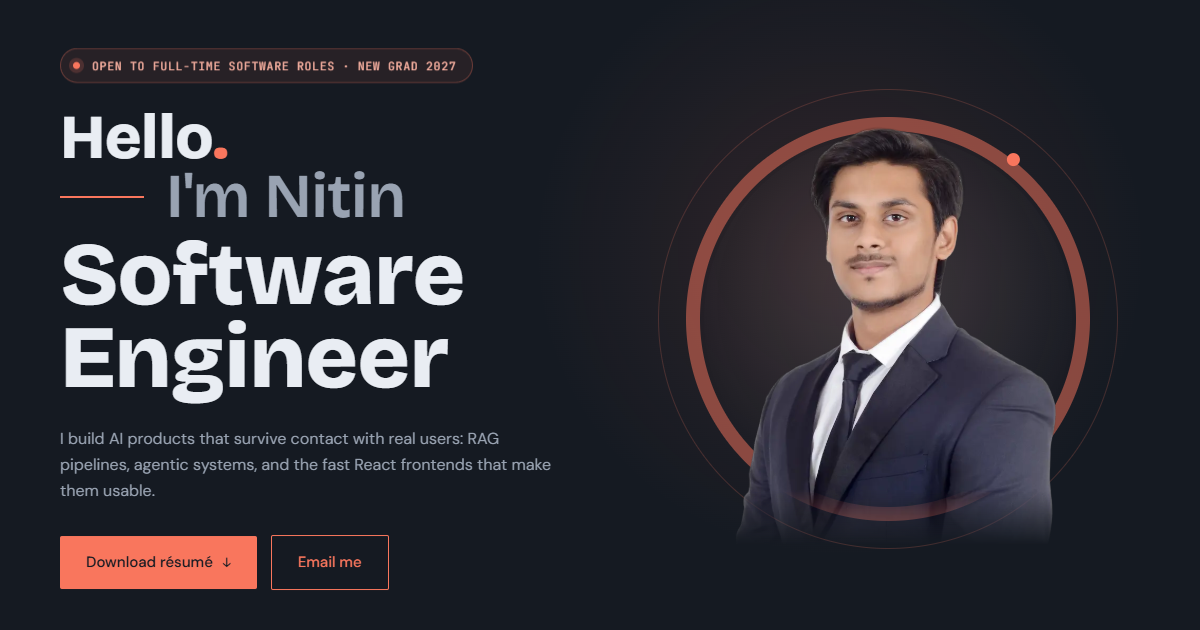
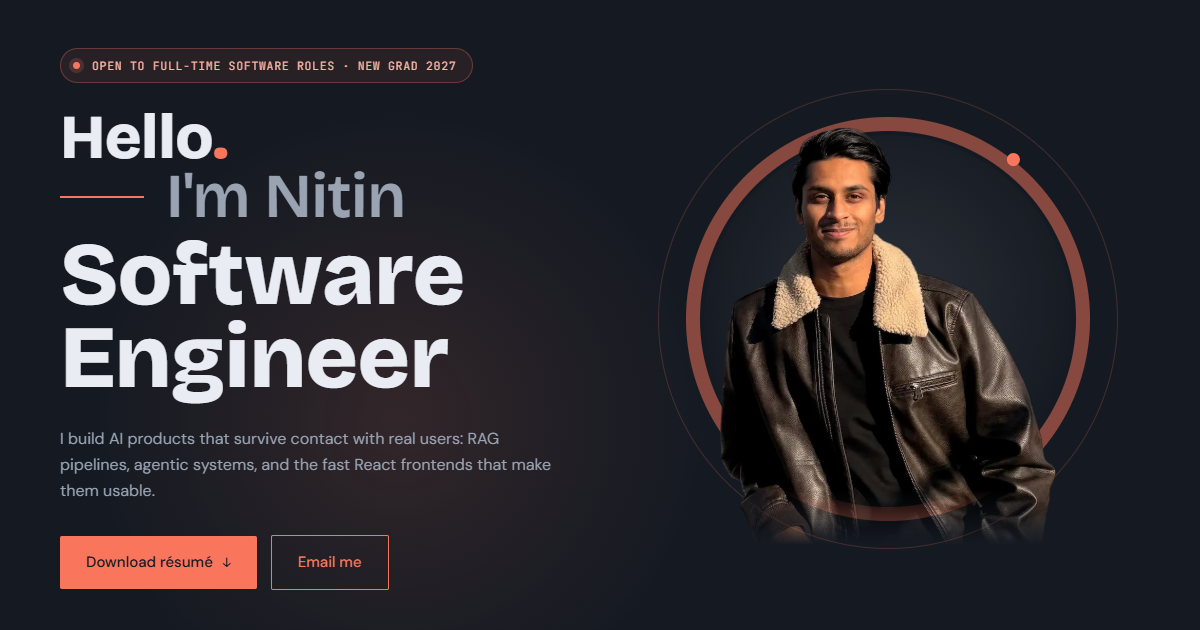
feat: swap the hero headshot for the Brooklyn Bridge photo
Same local cutout pipeline, cropped to the upper body. Faces the camera
this time, and the shearling collar gives the silhouette an edge the
suit never had against the ground colour. Regenerate the share card,
which was still showing the suit.

New filename rather than overwriting, since the image optimizer caches
by URL.

diff --git a/components/Hero.tsx b/components/Hero.tsx
@@ -105,8 +105,8 @@ export function Hero() {
           <span className="absolute left-1/2 top-[-7px] -ml-[6.5px] h-[13px] w-[13px] rounded-full bg-coral" />
         </div>
 
-        {/* A dark suit against a near-black ground loses its edges, so lift the
-            subject off the background with a soft pool of light behind it. */}
+        {/* Dark clothing against a near-black ground loses its edges, so lift
+            the subject off the background with a soft pool of light behind it. */}
         <div
           aria-hidden
           className="pointer-events-none absolute inset-[10%] rounded-full"
@@ -119,7 +119,7 @@ export function Hero() {
             it, so the shoulders break the circle. */}
         <div className="absolute inset-x-0 bottom-0 h-[92%]">
           <Image
-            src={profile.photo ?? "/avatar-suit.png"}
+            src={profile.photo ?? "/avatar-bridge.png"}
             alt={`${profile.name}, ${profile.title}`}
             fill
             priority

diff --git a/data/profile.ts b/data/profile.ts
@@ -99,7 +99,7 @@ export const profile = {
   },
 
   // Background-removed headshot, rendered floating over the hero's ring.
-  photo: "/avatar-suit.png" as string | null,
+  photo: "/avatar-bridge.png" as string | null,
   initials: "NM",
 
   githubUsername: "NitinMohan03",
